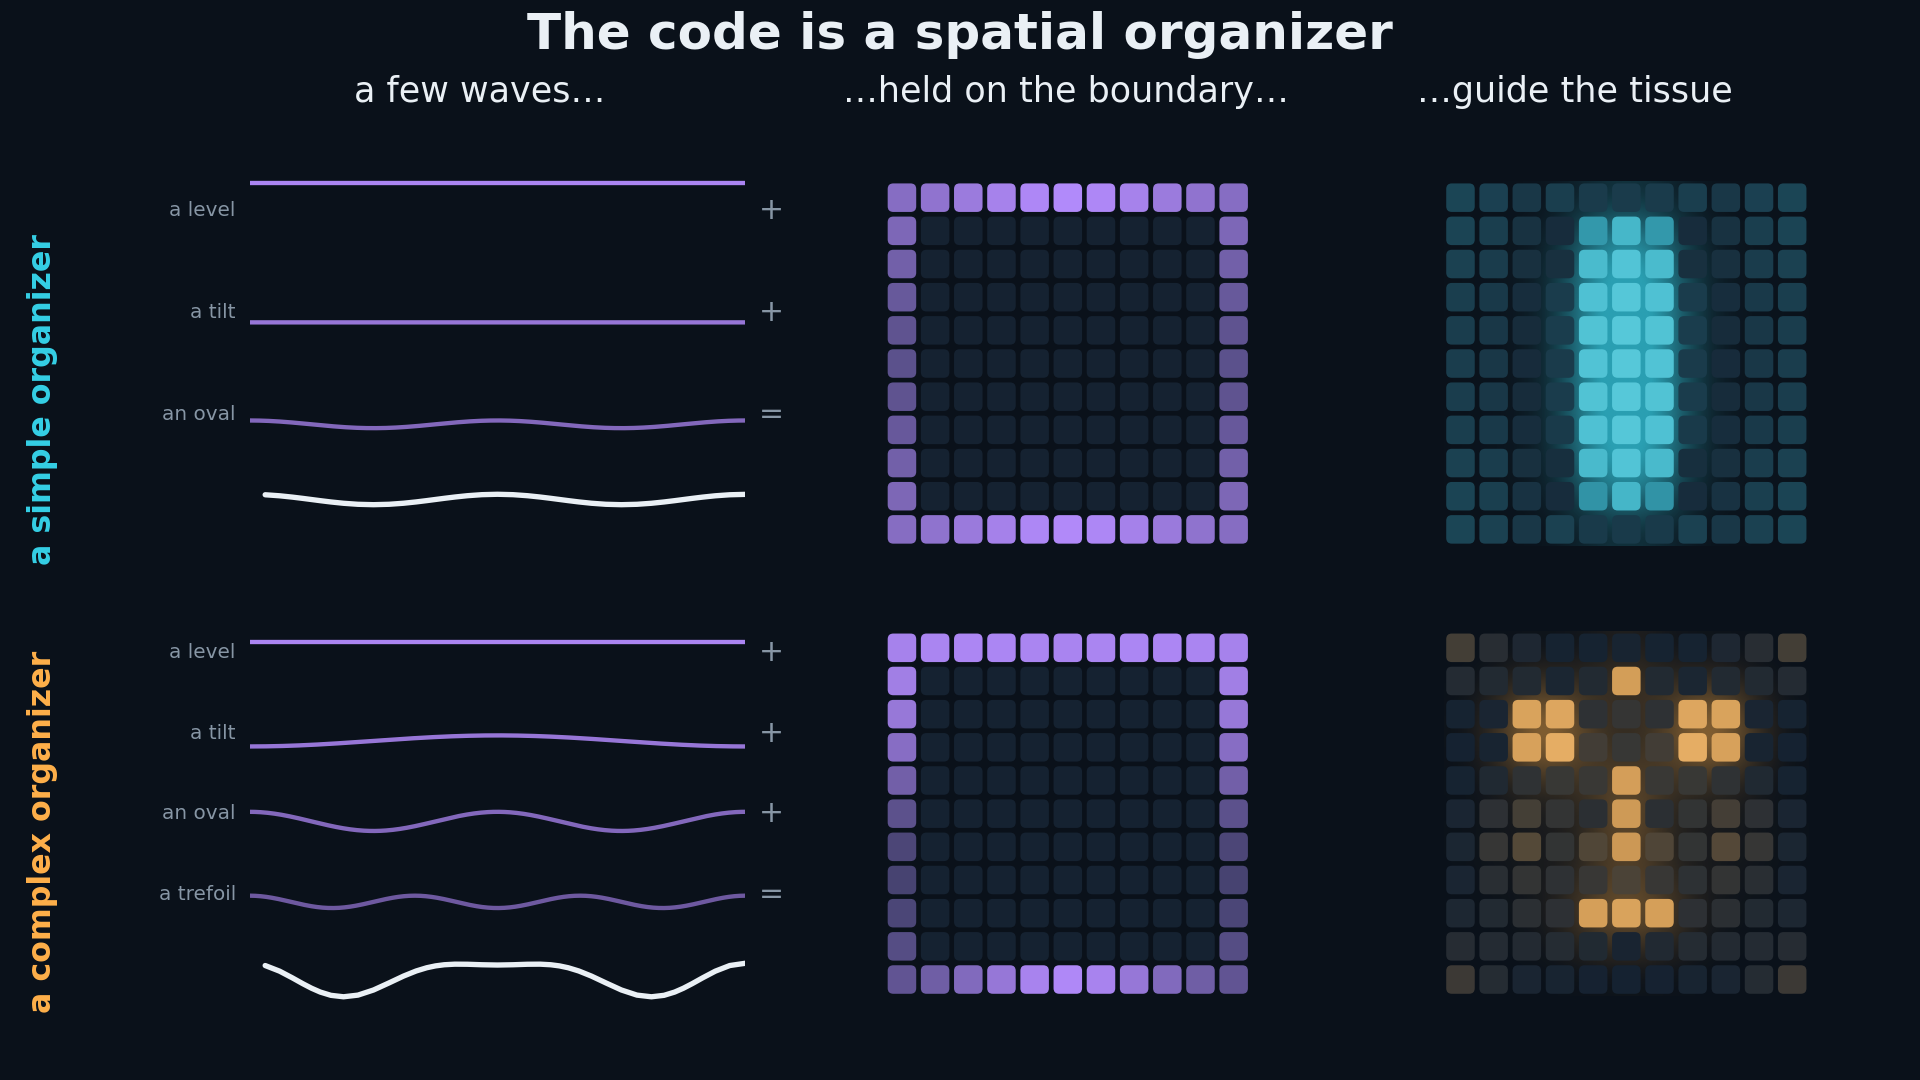
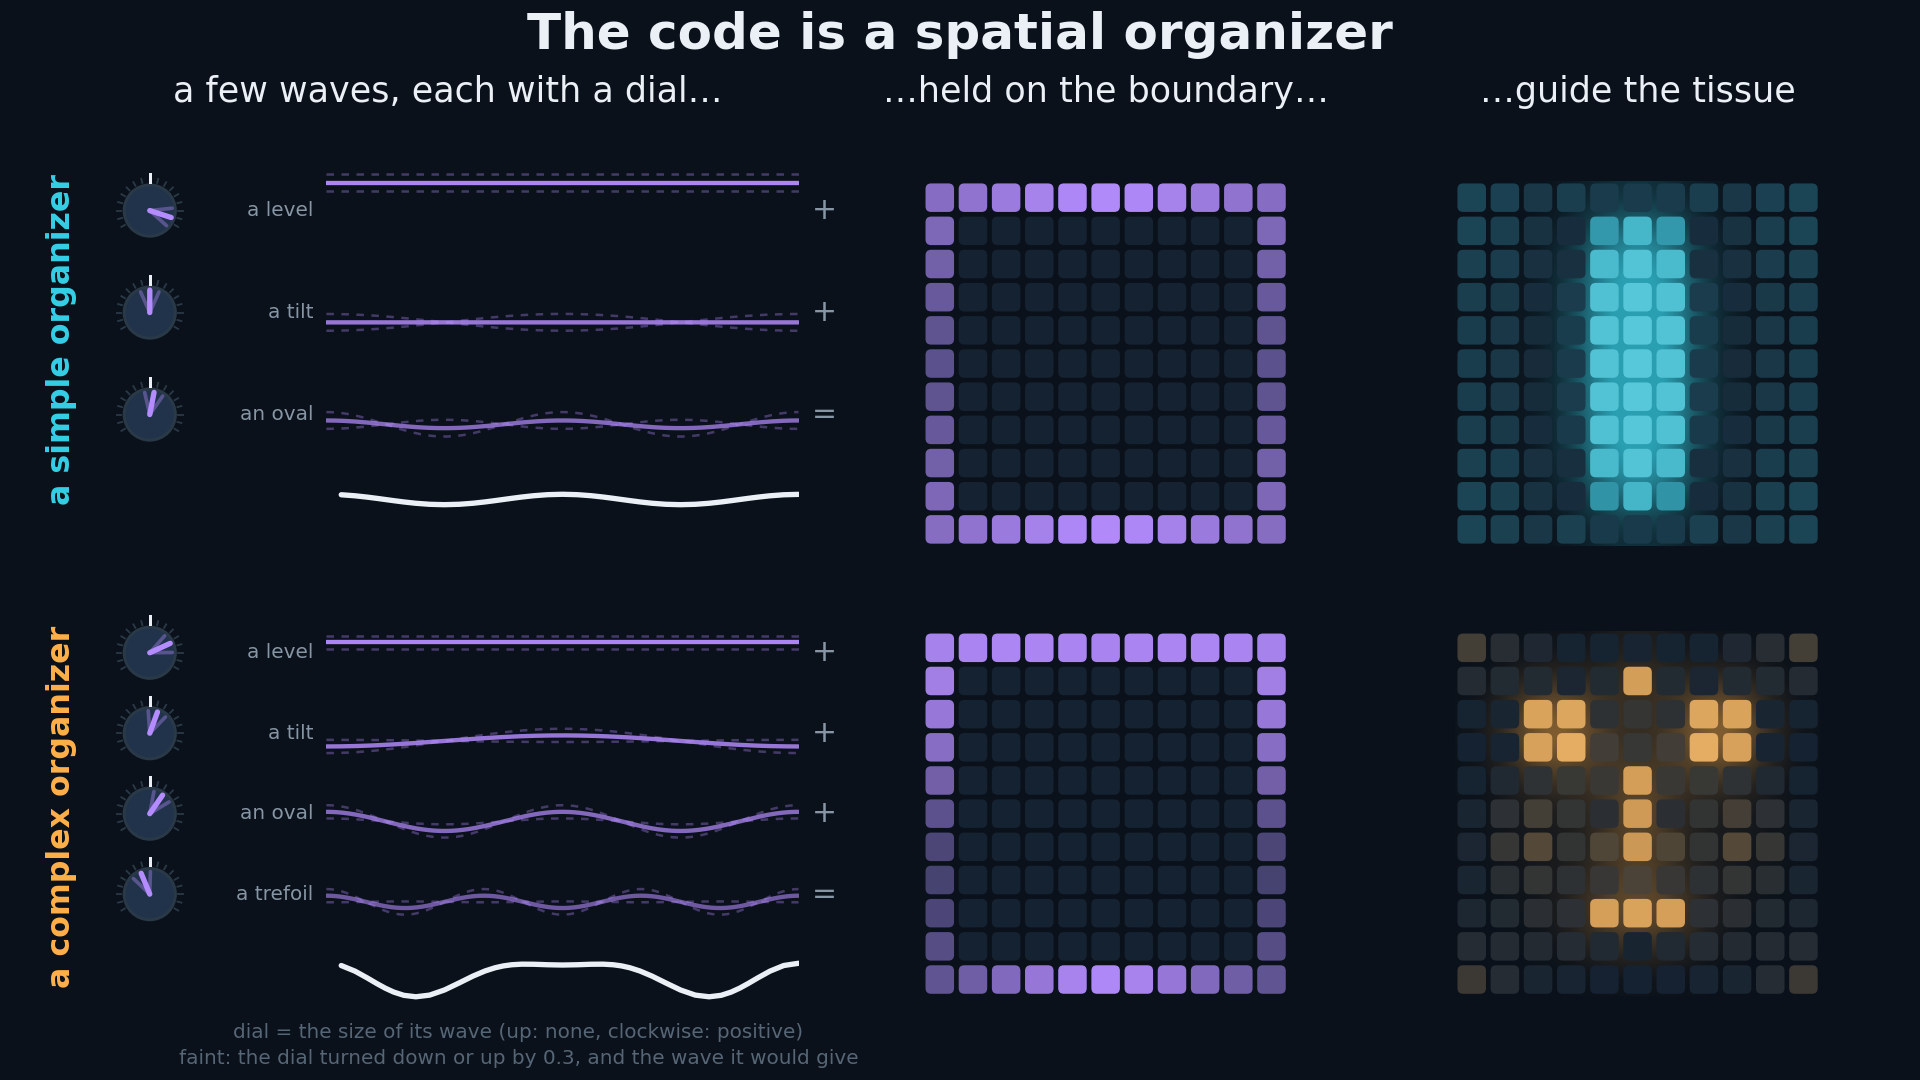
Add dials to figure 1 and tidy its labels
Each wave gets a dial whose pointer shows the size of the wave (up: none,
clockwise: positive), with faint ghosts for the dial turned by 0.3 and the
wave it would give. The vertical labels sit next to the dials and are centred
on the visible content of their block; the caption is wrapped. The notes'
row for figure 1 is updated (notes force-added past the *.md ignore rule).

diff --git a/buildCanalizationTalkEssence11x11.py b/buildCanalizationTalkEssence11x11.py
@@ -182,13 +182,32 @@ def partialHold(key, name, heldCells):
     return partialCache[storeKey]
 
 
+def drawDial(figure, centreX, centreY, width=0.034, angle=90.0, colour=None, ghostAngles=()):
+    """A dial in the style of the movies: 17 ticks over 240 degrees, a long tick at the trained (upright) setting, a pointer. Returns the dial's axes."""
+    height = width * 16 / 9                                                                  # a round dial on a 16:9 figure
+    axis = figure.add_axes([centreX - width / 2, centreY - height / 2, width, height])
+    axis.set_xlim(-1.5, 1.5); axis.set_ylim(-1.5, 1.5); axis.set_aspect('equal'); axis.axis('off')
+    axis.add_patch(plt.Circle((0, 0), 1.0, fc=BASE * 1.5, ec=FAINT, lw=1.8))
+    for tick in np.linspace(-30, 210, 17):
+        a = np.radians(tick)
+        isCentre = abs(tick - 90) < 1e-6
+        axis.plot([1.12 * np.cos(a), (1.42 if isCentre else 1.28) * np.cos(a)], [1.12 * np.sin(a), (1.42 if isCentre else 1.28) * np.sin(a)], color=INK_LIGHT if isCentre else FAINT, lw=1.8 if isCentre else 1.1)
+    for ghost in ghostAngles:                                                                # the dial turned elsewhere, faint
+        g = np.radians(ghost)
+        axis.plot([0, 0.88 * np.cos(g)], [0, 0.88 * np.sin(g)], color=tuple(VIOLET), lw=2.2, alpha=0.38, solid_capstyle='round')
+    a = np.radians(angle)
+    axis.plot([0, 0.88 * np.cos(a)], [0, 0.88 * np.sin(a)], color=tuple(VIOLET) if colour is None else colour, lw=3.2, solid_capstyle='round')
+    return axis
+
+
 # ================================================================================================================== 1 the spatial organizer
 WAVE_NAMES = ['a level', 'a tilt', 'an oval', 'a trefoil']
 
 if 'spatialOrganizer' in parts:
     figure = newFigure()
-    grid = figure.add_gridspec(2, 3, width_ratios=[1.05, 1, 1], left=0.13, right=0.97, top=0.84, bottom=0.07, wspace=0.18, hspace=0.18)
+    grid = figure.add_gridspec(2, 3, width_ratios=[1.05, 1, 1], left=0.17, right=0.97, top=0.84, bottom=0.07, wspace=0.18, hspace=0.18)
     degrees = np.linspace(-180, 180, 361)
+    contentExtent = {}                                                                         # per row: top of the first dial and bottom of the summed wave, in figure coordinates
     for row, key in enumerate(('stripe', 'face')):
         target = TARGETS[key]
         coefficients = target['coefficients']
@@ -197,11 +216,18 @@ if 'spatialOrganizer' in parts:
         for order in range(count):
             axis = figure.add_subplot(inner[order])
             axis.plot(degrees, coefficients[order] * np.cos(np.radians(order * degrees)), color=VIOLET, lw=2.6, alpha=0.95 - 0.12 * order, solid_capstyle='round')
+            for shift in (-0.3, 0.3):                                                         # the same wave with its dial turned down or up (illustration)
+                axis.plot(degrees, (coefficients[order] + shift) * np.cos(np.radians(order * degrees)), color=VIOLET, lw=1.5, alpha=0.34, ls=(0, (3, 3)))
             axis.set_ylim(-1.0, 1.7)
             axis.set_xlim(-180, 180)
             axis.axis('off')
             axis.text(-190, 0.35, WAVE_NAMES[order], ha='right', va='center', fontsize=12, color=MUTED)
             axis.text(190, 0.35, '+' if order < count - 1 else '=', ha='left', va='center', fontsize=18, color=MUTED)
+            position = axis.get_position()
+            setting = 90 - 80 * float(coefficients[order])                                      # the dial shows the size of its wave: up = none, clockwise = positive (80 degrees per unit)
+            drawDial(figure, position.x0 - 0.092, position.y0 + position.height * 0.5, width=0.040, angle=setting, ghostAngles=(setting + 24, setting - 24))   # +-0.3 turned down / up
+            if order == 0:
+                contentExtent[row] = [position.y0 + position.height * 0.5 + 0.034, None]                  # the dial of this wave, at the trained setting
         axis = figure.add_subplot(inner[count])
         total = ringValuesOf(coefficients, target['ceiling'])
         order = np.argsort(RING_ANGLES)
@@ -209,16 +235,22 @@ if 'spatialOrganizer' in parts:
         axis.set_ylim(-0.1, 1.9)
         axis.set_xlim(-180, 180)
         axis.axis('off')
+        totalBox = axis.get_position()
+        contentExtent[row][1] = totalBox.y0 + totalBox.height * (float(total.min()) + 0.1) / 2.0
         glyphBoundary = Glyph(figure.add_subplot(grid[row, 1]), key)
         glyphBoundary.update(np.full(121, -5.0), ringValues=total)
         glyphOut = Glyph(figure.add_subplot(grid[row, 2]), key)
         glyphOut.update(trainedCourse(key)[target['readIteration']], ringValues=total, ringWeight=0.0, glowStrength=0.75)
         glyphOut.showOutline(0.55)
-    for column, text in enumerate(('a few waves…', '…held on the boundary…', '…guide the tissue')):
-        caption(figure, (0.25, 0.555, 0.82)[column], 0.915, text, size=21, colour=INK_LIGHT)
+    for column, text in enumerate(('a few waves, each with a dial…', '…held on the boundary…', '…guide the tissue')):
+        columnBox = grid[0, column].get_position(figure)
+        caption(figure, columnBox.x0 + columnBox.width / 2 - (0.06 if column == 0 else 0.0), 0.915, text, size=21, colour=INK_LIGHT)
     figure.text(0.5, 0.968, 'The code is a spatial organizer', ha='center', va='center', fontsize=30, fontweight='bold', color=INK_LIGHT)
-    for row, key in enumerate(('stripe', 'face')):
-        figure.text(0.022, 0.63 - row * 0.40, 'a simple organizer' if key == 'stripe' else 'a complex organizer', ha='center', va='center', fontsize=19, color=GLOW_HEX[key], fontweight='bold', rotation=90)
+    for row, key in enumerate(('stripe', 'face')):                                           # the vertical label: centred on its block of rows, close to the dials
+        rowBox = grid[row, 0].get_position(figure)
+        figure.text(rowBox.x0 - 0.092 - 0.046, sum(contentExtent[row]) / 2, 'a simple organizer' if key == 'stripe' else 'a complex organizer', ha='center', va='center', fontsize=19,
+                    color=GLOW_HEX[key], fontweight='bold', rotation=90)
+    figure.text(0.27, 0.032, 'dial = the size of its wave (up: none, clockwise: positive)\nfaint: the dial turned down or up by 0.3, and the wave it would give', ha='center', va='center', fontsize=12, color=FAINT_TEXT, linespacing=1.5)
     savePicture(figure, '1_theSpatialOrganizer.png')
 
 # ================================================================================================================== 2 two steps of reading

diff --git a/presentation/TALK_NOTES.md b/presentation/TALK_NOTES.md
@@ -156,7 +156,7 @@ In movie A each panel stops at its target's moment (stripe 504, face 2173) becau
 | File | What it shows | Use |
 |---|---|---|
 | `movies/A_guideThenLetGo.mp4` (9 s) | the organizer appears, is held (guidance), lets go (self-organization); stripe forms, then face | opener |
-| `1_theSpatialOrganizer.png` | a few waves → the boundary profile → the pattern | the idea |
+| `1_theSpatialOrganizer.png` | a few waves, each with a dial whose pointer shows the size of its wave (up: none, clockwise: positive; faint: the dial turned by 0.3 and the wave it would give) → the boundary profile → the pattern | the idea; introduces the dials before movies B and D. In the movies the dials rest straight up at the trained code and the sweeps show departures from it |
 | `2_twoPhases.png` | seven moments of each target, bracketed by guidance and self-organization | simple is written while held, complex long after |
 | `3_stripeTwoSwitches.png` | top end only, bottom end only, both | the simple organizer is readable |
 | `movies/B_turningTheKnobs.mp4` (9 s) | each knob turned: three for the stripe, four for the face | few knobs, many cells; tidy versus fragmenting |
